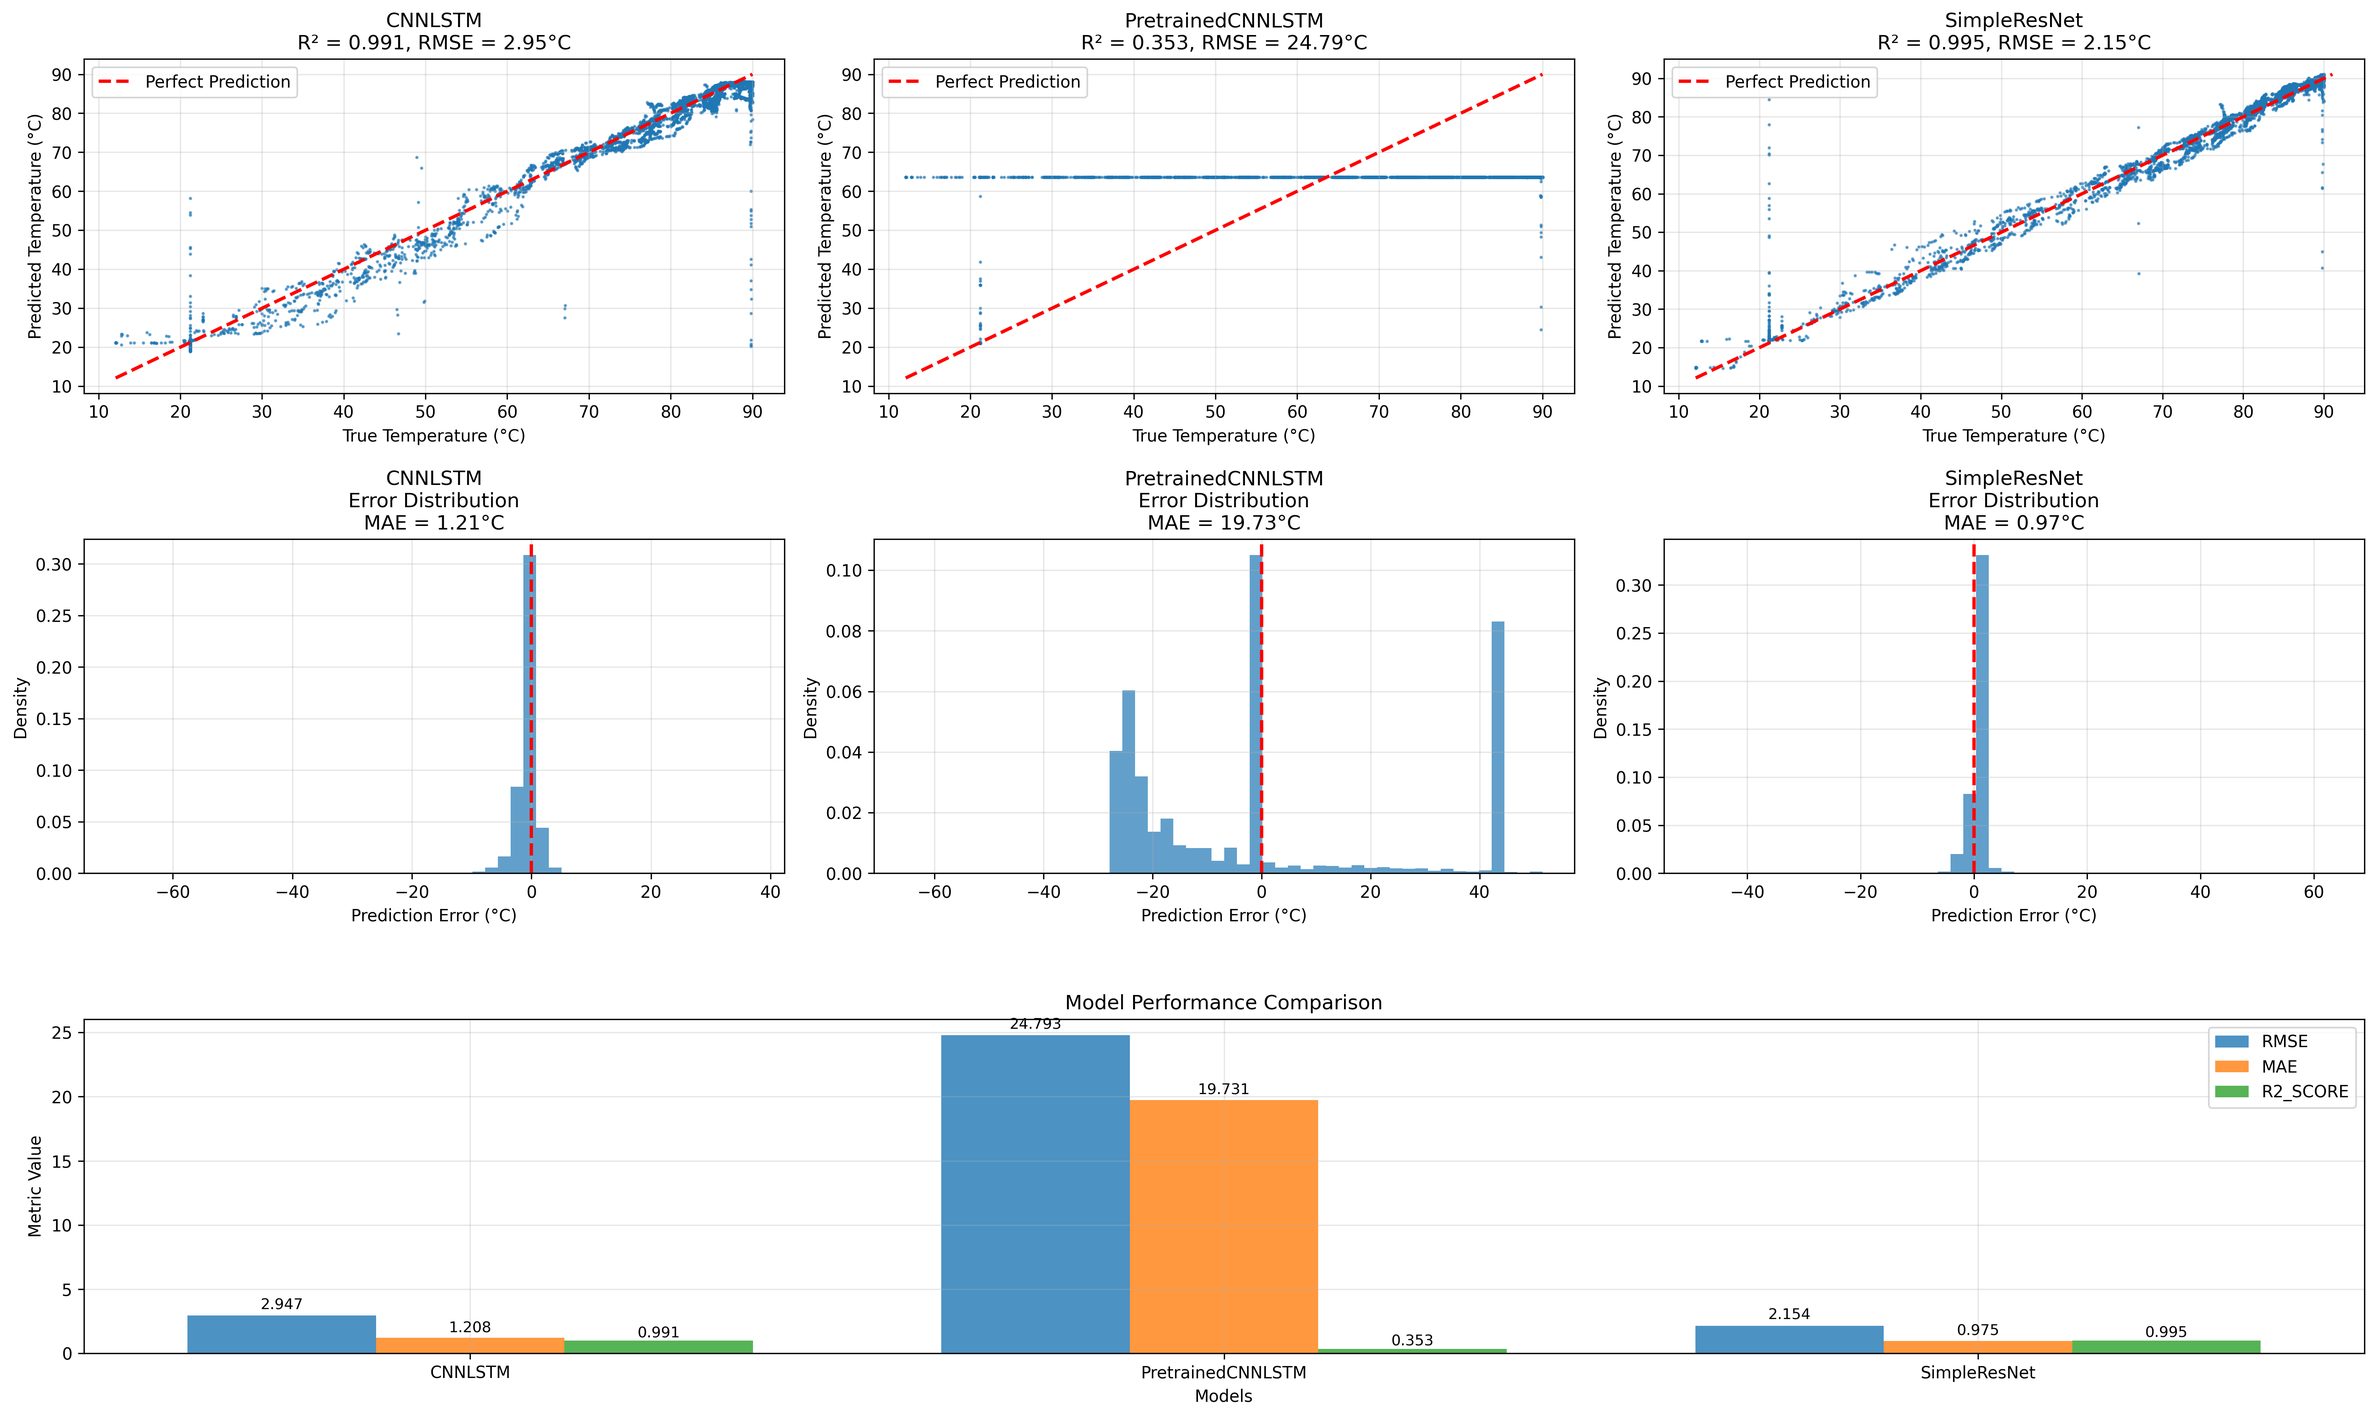
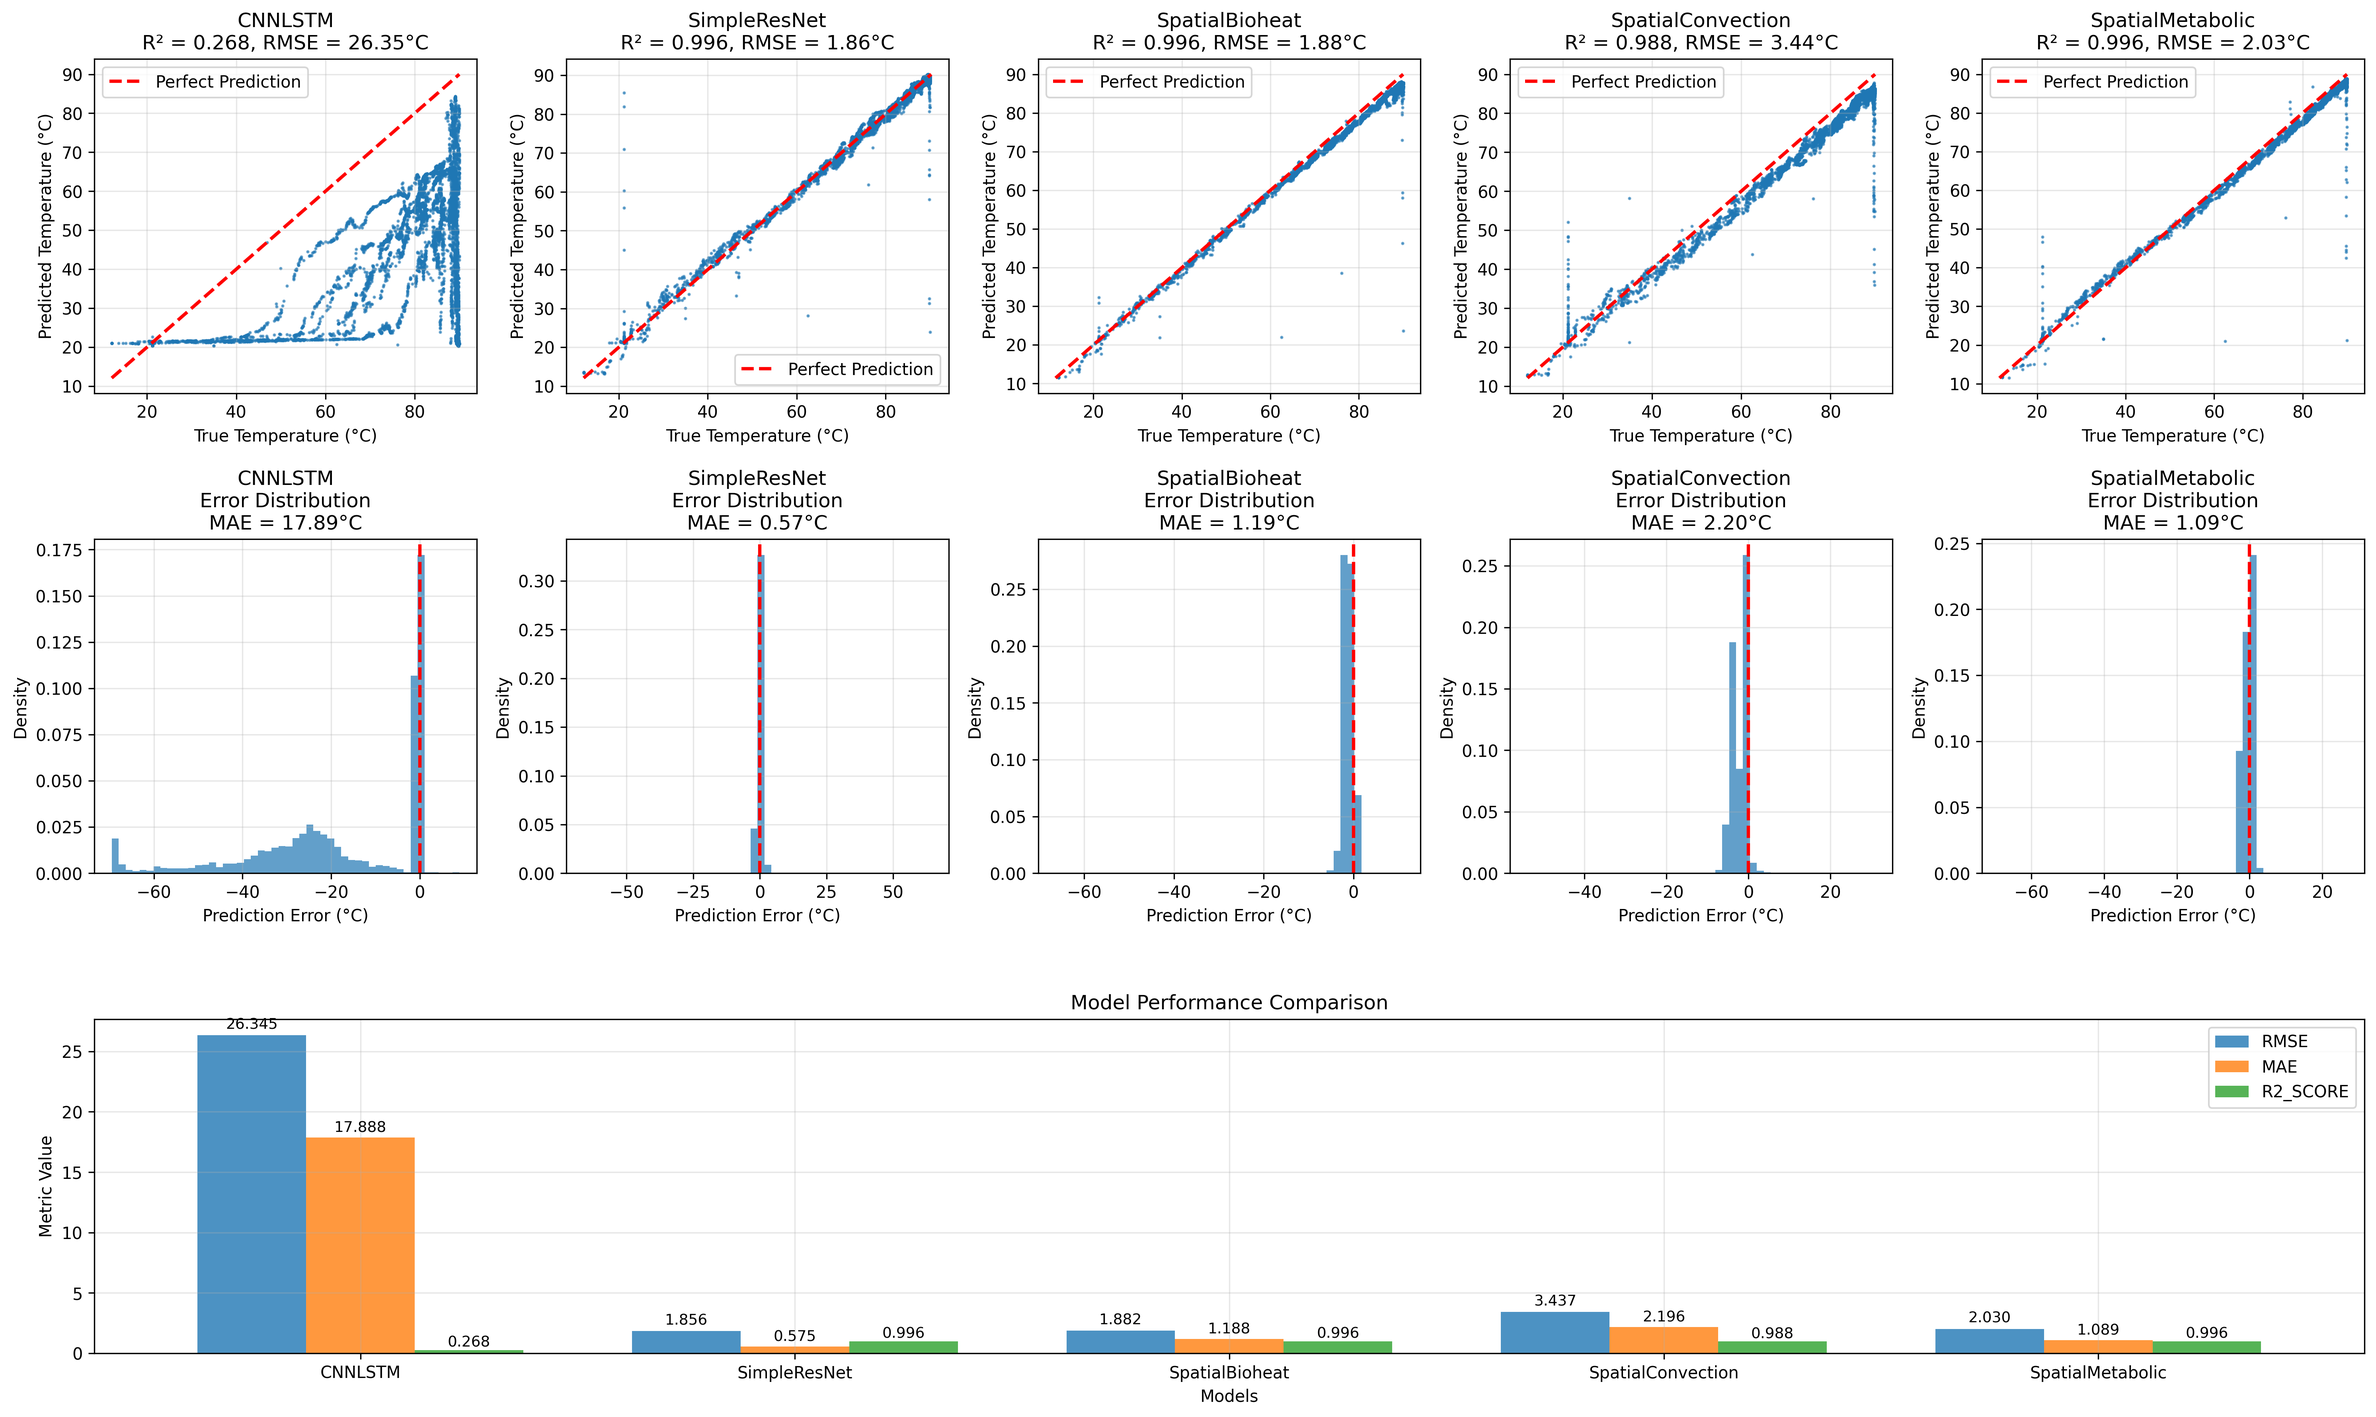
Fix Makefile and Optimize Evaluation

diff --git a/evaluation/evaluate_models.py b/evaluation/evaluate_models.py
@@ -23,7 +23,7 @@ import sys
 # Add parent directory to path to allow imports
 sys.path.append(os.path.abspath(os.path.join(os.path.dirname(__file__), '..')))
 
-from models.backbones import CNNLSTM, PretrainedCNNLSTM, SimpleResNet
+from models.backbones import CNNLSTM, PretrainedCNNLSTM, SimpleResNet, SpatialResNet
 from utils.dataset import TemperatureSequenceDataset
 import warnings
 warnings.filterwarnings('ignore')
@@ -32,10 +32,15 @@ warnings.filterwarnings('ignore')
 class ModelEvaluator:
     """Comprehensive model evaluation and comparison class."""
     
-    def __init__(self, data_dir="data", batch_size=64, device=None):
+    def __init__(self, data_dir="data", batch_size=256, device=None):
         self.data_dir = data_dir
         self.batch_size = batch_size
         self.device = device or torch.device("cuda" if torch.cuda.is_available() else "cpu")
+        
+        # Check for multiple GPUs
+        self.n_gpu = torch.cuda.device_count()
+        if self.n_gpu > 1:
+            print(f"Using {self.n_gpu} GPUs for evaluation!")
         
         # Initialize dataset and data loader
         self.transform = transforms.Compose([
@@ -46,8 +51,9 @@ class ModelEvaluator:
         
         self.dataset = TemperatureSequenceDataset(
             data_dir, 
-            sequence_length=3, 
-            transform=self.transform, 
+            sequence_length=5, 
+            transform=self.transform,
+            use_optical_flow=True,
             image_size=(64, 64)
         )
         
@@ -74,29 +80,38 @@ class ModelEvaluator:
     
     def load_model(self, model_name, model_path):
         """Load a trained model from checkpoint."""
-        frame_shape = (64, 64, 3)
-        time_steps = 3
+        frame_shape = (64, 64, 5)
+        time_steps = 5
         
         try:
             if model_name == "CNNLSTM":
                 model = CNNLSTM(frame_shape=frame_shape, time_steps=time_steps)
-                model.load_state_dict(torch.load(model_path, map_location=self.device))
+                # Load weights before DataParallel wrapping
+                model.load_state_dict(torch.load(model_path, map_location='cpu'))
                 
             elif model_name == "PretrainedCNNLSTM":
                 # Recreate the pretrained CNN
                 pretrained_cnn = resnet18(weights='IMAGENET1K_V1')
                 pretrained_cnn.fc = torch.nn.Linear(pretrained_cnn.fc.in_features, 1)
                 model = PretrainedCNNLSTM(pretrained_cnn, frame_shape=frame_shape, time_steps=time_steps)
-                model.load_state_dict(torch.load(model_path, map_location=self.device))
+                model.load_state_dict(torch.load(model_path, map_location='cpu'))
                 
             elif model_name == "SimpleResNet":
                 model = SimpleResNet(frame_shape=frame_shape)
-                model.load_state_dict(torch.load(model_path, map_location=self.device))
+                model.load_state_dict(torch.load(model_path, map_location='cpu'))
                 
+            elif model_name in ["SpatialBioheat", "SpatialConvection", "SpatialMetabolic"]:
+                model = SpatialResNet(frame_shape=frame_shape)
+                state_dict = torch.load(model_path, map_location='cpu')
+                model.load_state_dict(state_dict)
+
             else:
                 raise ValueError(f"Unknown model name: {model_name}")
             
             model.to(self.device)
+            if self.n_gpu > 1:
+                model = torch.nn.DataParallel(model)
+                
             model.eval()
             print(f"Successfully loaded {model_name} from {model_path}")
             return model
@@ -119,6 +134,16 @@ class ModelEvaluator:
                 
                 # Forward pass
                 outputs = model(images)
+                
+                # Handle spatial output (Batch, Time, 4, 4) or (Batch, 4, 4) -> (Batch,)
+                if model_name in ["SpatialBioheat", "SpatialConvection", "SpatialMetabolic"]:
+                    # If output has time dimension (Batch, Time, 4, 4), take last frame
+                    if outputs.dim() == 4:
+                        outputs = outputs[:, -1, :, :]
+                    
+                    # Now (Batch, 4, 4), average over spatial dimensions
+                    if outputs.dim() == 3:
+                        outputs = outputs.mean(dim=[1, 2])
                 
                 # Store predictions and true values
                 predictions.extend(outputs.cpu().numpy())
@@ -266,25 +291,92 @@ class ModelEvaluator:
         return df
     
     def run_evaluation(self, model_configs):
-        """Run complete evaluation for all models."""
+        """Run complete evaluation for all models simultaneously to save I/O and time."""
+        loaded_models = {}
         results = []
         
+        # 1. Load all available models
+        print("\nLoading all models into memory...")
         for model_name, model_path in model_configs.items():
             if os.path.exists(model_path):
                 model = self.load_model(model_name, model_path)
                 if model is not None:
-                    metrics = self.evaluate_model(model, model_name)
-                    results.append(metrics)
-                    
-                    # Clean up GPU memory
-                    del model
-                    torch.cuda.empty_cache()
+                    loaded_models[model_name] = model
             else:
                 print(f"Model file not found: {model_path}")
         
-        if not results:
-            print("No models could be evaluated!")
+        if not loaded_models:
+            print("No models could be loaded!")
             return None
+            
+        print(f"\nSuccessfully loaded {len(loaded_models)} models.")
+        
+        # 2. Single pass evaluation
+        print("\nStarting simultaneous evaluation...")
+        
+        # Initialize storage for predictions and targets
+        all_preds = {name: [] for name in loaded_models}
+        all_targets = []
+        
+        with torch.no_grad():
+            for images, labels in tqdm(self.test_loader, desc="Evaluating all models"):
+                images = images.to(self.device, non_blocking=True)
+                labels = labels.to(self.device, non_blocking=True)
+                
+                # Store targets once
+                all_targets.extend(labels.cpu().numpy())
+                
+                # Run inference for each model
+                for name, model in loaded_models.items():
+                    outputs = model(images)
+                    
+                    # Handle spatial output
+                    if name in ["SpatialBioheat", "SpatialConvection", "SpatialMetabolic"]:
+                        if outputs.dim() == 4:
+                            outputs = outputs[:, -1, :, :]
+                        if outputs.dim() == 3:
+                            outputs = outputs.mean(dim=[1, 2])
+                    
+                    all_preds[name].extend(outputs.cpu().numpy())
+        
+        # 3. Compute metrics for each model
+        print("\nComputing metrics...")
+        true_values = np.array(all_targets)
+        
+        for name, preds in all_preds.items():
+            predictions = np.array(preds)
+            
+            # Helper to calculate metrics (copied logic from original evaluate_model)
+            mse = mean_squared_error(true_values, predictions)
+            rmse = np.sqrt(mse)
+            mae = mean_absolute_error(true_values, predictions)
+            r2 = r2_score(true_values, predictions)
+            correlation, _ = stats.pearsonr(true_values, predictions)
+            
+            abs_errors = np.abs(predictions - true_values)
+            within_1c = np.mean(abs_errors <= 1.0) * 100
+            within_2c = np.mean(abs_errors <= 2.0) * 100
+            within_5c = np.mean(abs_errors <= 5.0) * 100
+            
+            results.append({
+                'model_name': name,
+                'predictions': predictions,  # Needed for plotting
+                'true_values': true_values,
+                'mse': mse,
+                'rmse': rmse,
+                'mae': mae,
+                'r2_score': r2,
+                'correlation': correlation,
+                'within_1c': within_1c,
+                'within_2c': within_2c,
+                'within_5c': within_5c,
+                'num_samples': len(true_values)
+            })
+            
+        # Clean up
+        for model in loaded_models.values():
+            del model
+        torch.cuda.empty_cache()
         
         # Create visualizations and reports
         self.plot_comparison(results)
@@ -310,14 +402,17 @@ def main():
     parser = argparse.ArgumentParser(description="Evaluate and compare trained models")
     parser.add_argument("--data_dir", type=str, default="data", help="Data directory")
     parser.add_argument("--batch_size", type=int, default=64, help="Batch size for evaluation")
-    parser.add_argument("--models_dir", type=str, default="checkpoints", help="Directory containing model checkpoints")
+    parser.add_argument("--models_dir", type=str, default="models", help="Directory containing model checkpoints")
     args = parser.parse_args()
     
     # Define model configurations
     model_configs = {
         "CNNLSTM": os.path.join(args.models_dir, "cnnlstm_model.pth"),
         "PretrainedCNNLSTM": os.path.join(args.models_dir, "pretrained_cnnlstm_model.pth"),
-        "SimpleResNet": os.path.join(args.models_dir, "simple_resnet_model.pth")
+        "SimpleResNet": os.path.join(args.models_dir, "simple_resnet_model.pth"),
+        "SpatialBioheat": os.path.join(args.models_dir, "spatial_bioheat_resnet.pth"),
+        "SpatialConvection": os.path.join(args.models_dir, "spatial_convection_bioheat_resnet.pth"),
+        "SpatialMetabolic": os.path.join(args.models_dir, "spatial_metabolic_bioheat_resnet.pth")
     }
     
     # Initialize evaluator

diff --git a/research/temperature_field_estimation.md b/research/temperature_field_estimation.md
@@ -1,0 +1,60 @@
+# Research Summary: Dense Temperature Map Estimation from Sparse Sensors
+
+## 1. Problem Definition
+*   **Input:** Grayscale/RGB video frames (possibly with Optical Flow).
+*   **Sparse Data:** 4 discrete temperature sensors arranged in a square pattern.
+*   **Goal:** Estimate a dense, pixel-wise temperature heatmap ($H \times W$) for the "active zone".
+*   **Constraint:** "Ground Truth" dense maps do not exist; only sparse points are known.
+
+## 2. Recommended Architecture: ResNet-UNet (Encoder-Decoder)
+To transition from scalar regression to dense map regression, the architecture must move from a "Funnel" (Encoder -> Vector) to an "Hourglass" (Encoder -> Bottleneck -> Decoder).
+
+### Architecture Choice: U-Net / ResNet-UNet
+*   **Why:** U-Net is the standard for image-to-image translation tasks (segmentation, depth estimation, field estimation) because **Skip Connections** preserve spatial information lost during pooling.
+*   **Implementation Strategy:**
+    *   **Encoder:** Reuse the **Simple ResNet** backbone (already trained and performant). Freeze the early layers (Layer 1-3) to retain learned feature extraction.
+    *   **Decoder:** Add a sequence of `ConvTranspose2d` (Upsampling) layers + `ReLU` + `BatchNorm` to project the 512-dim feature vector back to $64 \times 64$ spatial resolution.
+    *   **Skip Connections:** Link the output of `model.layer1`, `model.layer2`, etc., to the corresponding decoder layers to sharpen the "hot spot" boundaries.
+
+### Alternative: Fully Convolutional Network (FCN)
+*   Simpler but coarser outputs. Better if only a "blob" location is needed, but U-Net is preferred for accurate gradient mapping.
+
+## 3. Handling Sparse Ground Truth (The "Interpolation" Problem)
+Since we cannot train with a dense pixel-wise MSE loss (we don't have the targets), we must guide the network using **Hybrid Constraints**.
+
+### A. Geometric Interpolation (Baseline)
+Use **Radial Basis Functions (RBF)** or **Bilinear Interpolation** to generate a synthetic "Smooth Ground Truth" from the 4 points.
+*   *Pros:* Easy to implement.
+*   *Cons:* Ignores physics (heat doesn't always flow in perfect circles).
+*   *Proposed Use:* Use this as a **Pre-training Target**. Train the U-Net to replicate RBF interpolation first to learn the mechanics of generating a map.
+
+### B. Physics-Informed Training (PINN Method)
+This is the robust solution. We define a loss function that relies on the Physics, not dense labels.
+$$ Loss_{Total} = Loss_{Data} + \lambda \cdot Loss_{Physics} $$
+
+1.  **Data Loss ($Loss_{Data}$):**
+    *   Masked MSE. We take the predicted heatmap $\hat{Y}$, extract the values at the **4 pixel coordinates** corresponding to the sensors, and minimize the error against the real sensor readings.
+    *   $Loss = \sum_{i=1}^{4} ||\hat{Y}(x_i, y_i) - T_{sensor_i}||^2$
+
+2.  **Physics Loss ($Loss_{Physics}$):**
+    *   Apply the **Bioheat / Heat Diffusion Equation** to the **entire predicted map**.
+    *   The network learns that "between the sensors, the temperature must change smoothly according to diffusion."
+    *   We already have `AdvancedBioHeatLoss` – this is perfectly suited for this task.
+
+## 4. Transfer Learning Plan
+1.  **Branch Repository:** Create `feature/dense-map-estimation`.
+2.  **Data Loader Update:**
+    *   Parse the new CSV format (4 columns + timestamps).
+    *   Identify pixel coordinates of the 4 sensors (using the "bright spots" in the video).
+    *   Return: `Image`, `[(x1,y1,t1), (x2,y2,t2), ...]`.
+3.  **Model Adaptation:**
+    *   Load `SimpleResNet` weights.
+    *   Discard `fc` layer.
+    *   Attach `Decoder` module.
+4.  **Training Phases:**
+    *   **Phase 1 (Geometric):** Train Decoder to match RBF interpolated maps (Stabilization).
+    *   **Phase 2 (Physics):** Fine-tune using Masked MSE (at 4 points) + Bioheat Loss (everywhere).
+
+## 5. References
+*   *Ronneberger, O., et al.* "U-Net: Convolutional Networks for Biomedical Image Segmentation." (MICCAI 2015).
+*   *Raissi, M., et al.* "Physics-informed neural networks: A deep learning framework for solving forward and inverse problems involving nonlinear partial differential equations." (Journal of Computational Physics, 2019).
